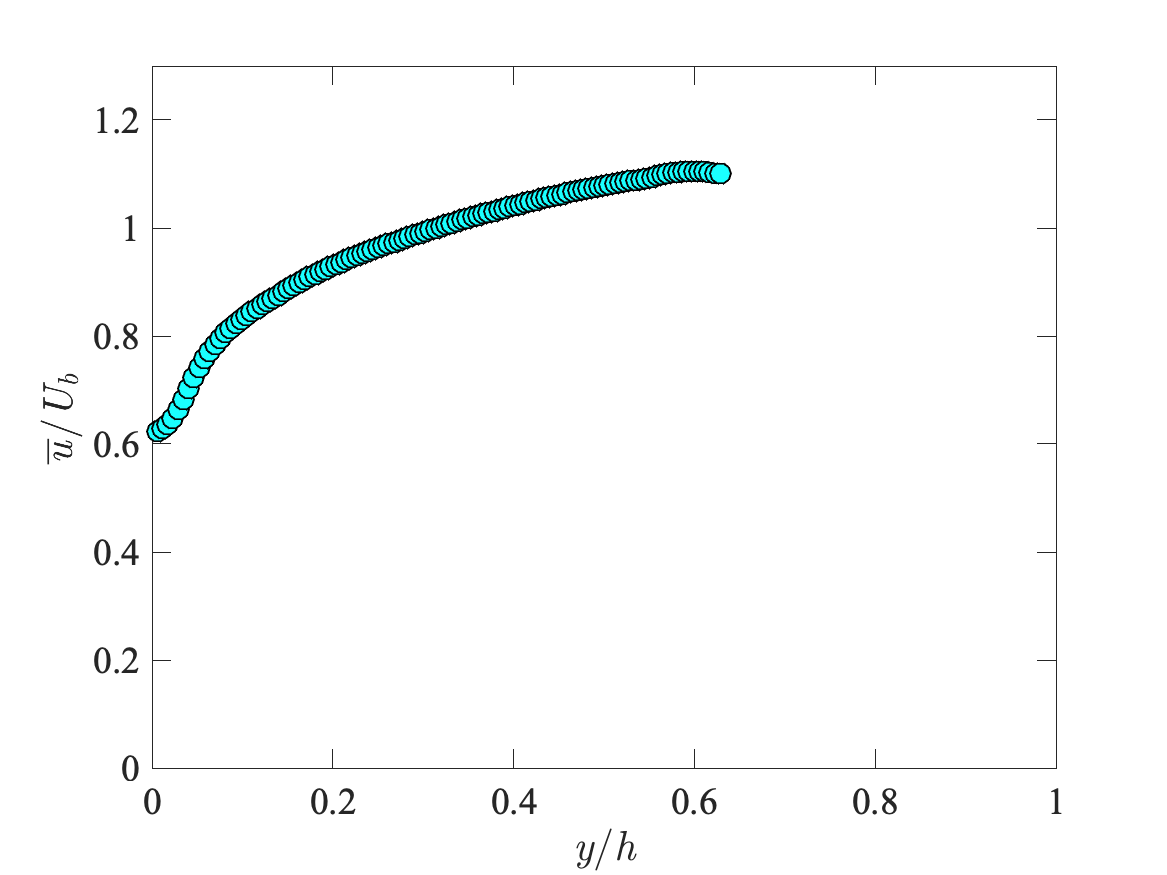
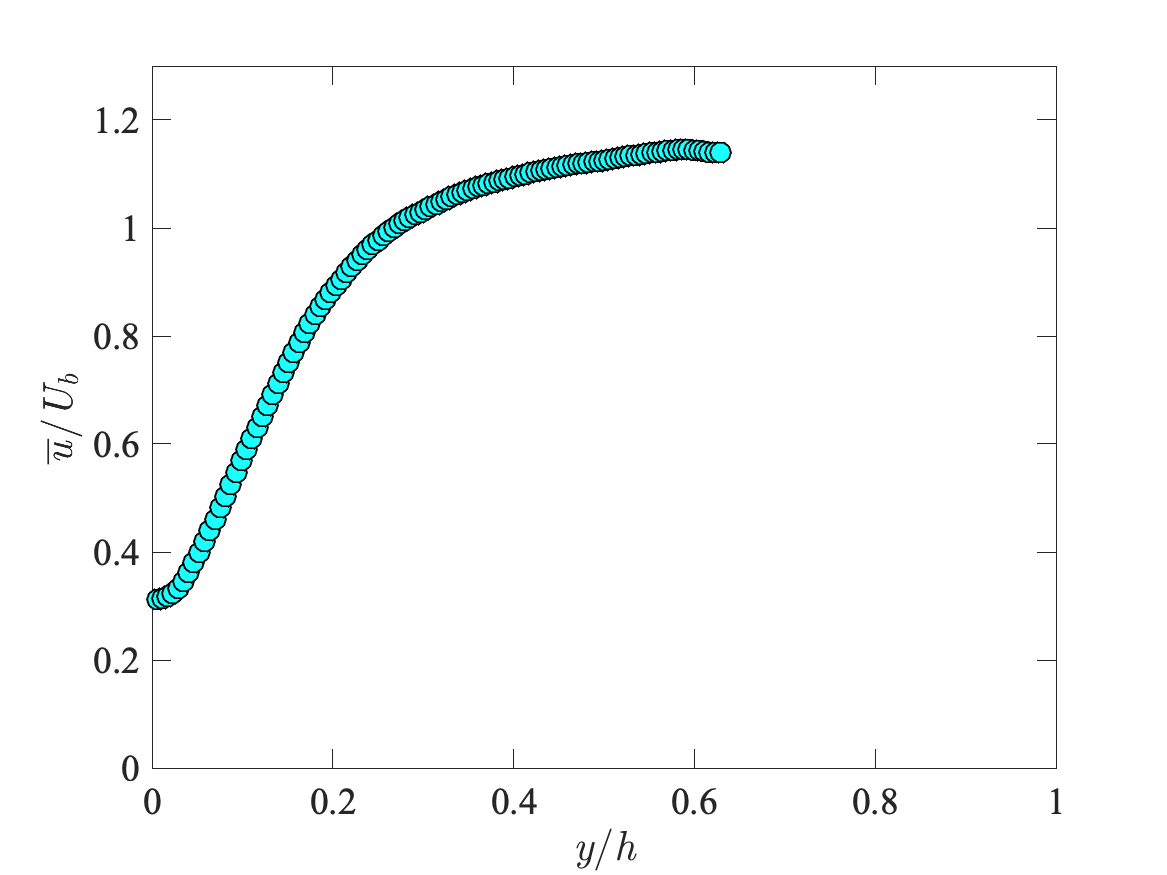
無次元化を修正

Changed region(s): [[0.1234, 0.1543, 0.6478, 0.7097]]

diff --git a/itoi/PIV_assignment/water_algo.m b/itoi/PIV_assignment/water_algo.m
@@ -253,8 +253,8 @@ for k =0:numfiles-1
         ycross = x(1:n,1,2) * ut / vis;
         sigma(:,:,1)      = sqrt(uu(:,:,1));
         sigma(:,:,2)      = sqrt(uu(:,:,2));
-        skewness_u = (uu_Skewness(:,:,1)./(sigma(:,:,1).^3))./ut;
-        skewness_v = (uu_Skewness(:,:,2)./(sigma(:,:,2).^3))./ut;
+        skewness_u = (uu_Skewness(:,:,1)./(sigma(:,:,1).^3));
+        skewness_v = (uu_Skewness(:,:,2)./(sigma(:,:,2).^3));
         % skewness_uの第二引数はどのx座標を観察したいかによって適宜変える
         semilogx(ycross,skewness_u(:,1),'--');
         % ylim([0 60])
@@ -274,8 +274,8 @@ for k =0:numfiles-1
     %     ycross = x(1:n,1,2) * ut / vis;
     %     sigma(:,:,1)      = sqrt(uu(:,:,1));
     %     sigma(:,:,2)      = sqrt(uu(:,:,2));
-    %     flatness_u = (uu_Flatness(:,:,1)./(sigma(:,:,1).^4))./ut;
-    %     flatness_v = (uu_Flatness(:,:,2)./(sigma(:,:,2).^4))./ut;
+    %     flatness_u = (uu_Flatness(:,:,1)./(sigma(:,:,1).^4));
+    %     flatness_v = (uu_Flatness(:,:,2)./(sigma(:,:,2).^4));
 
     %     % skewness_uの第二引数はどのx座標を観察したいかによって適宜変える
     %     semilogx(ycross,flatness_u(:,1),'o');
